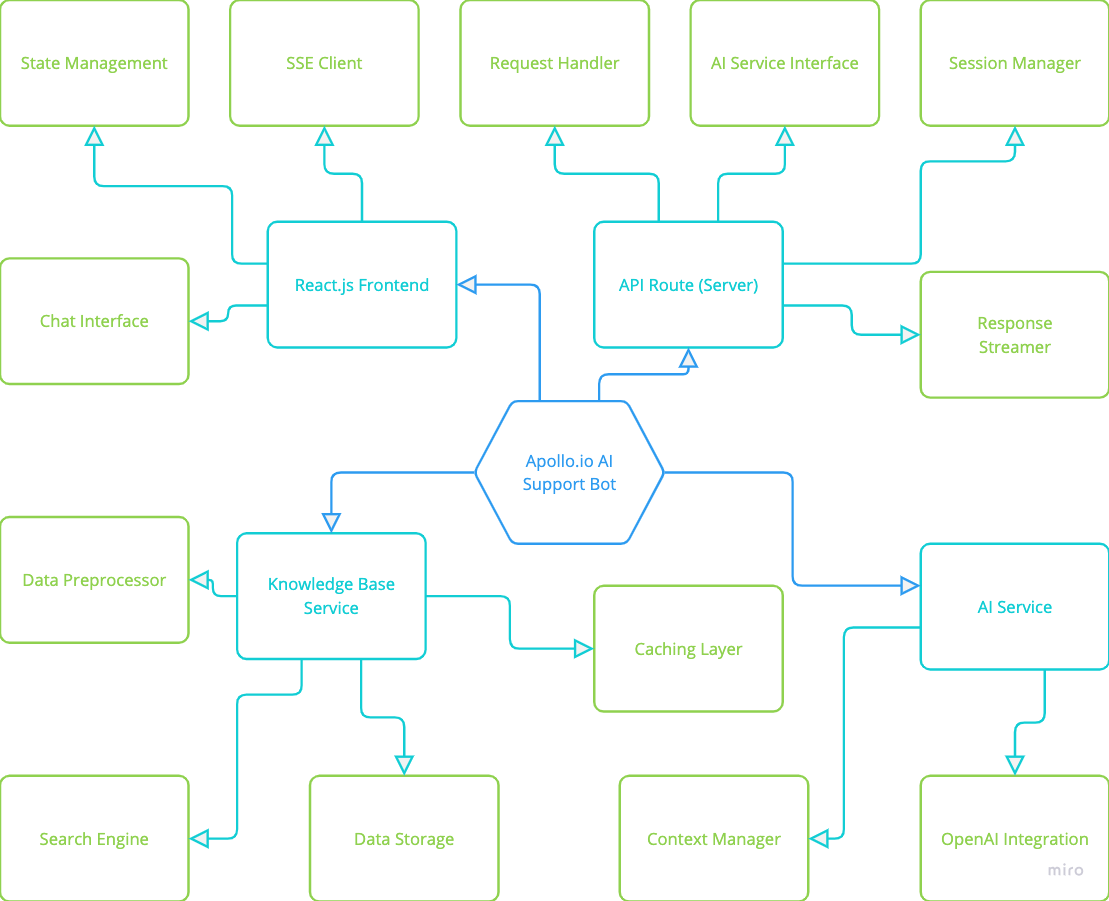
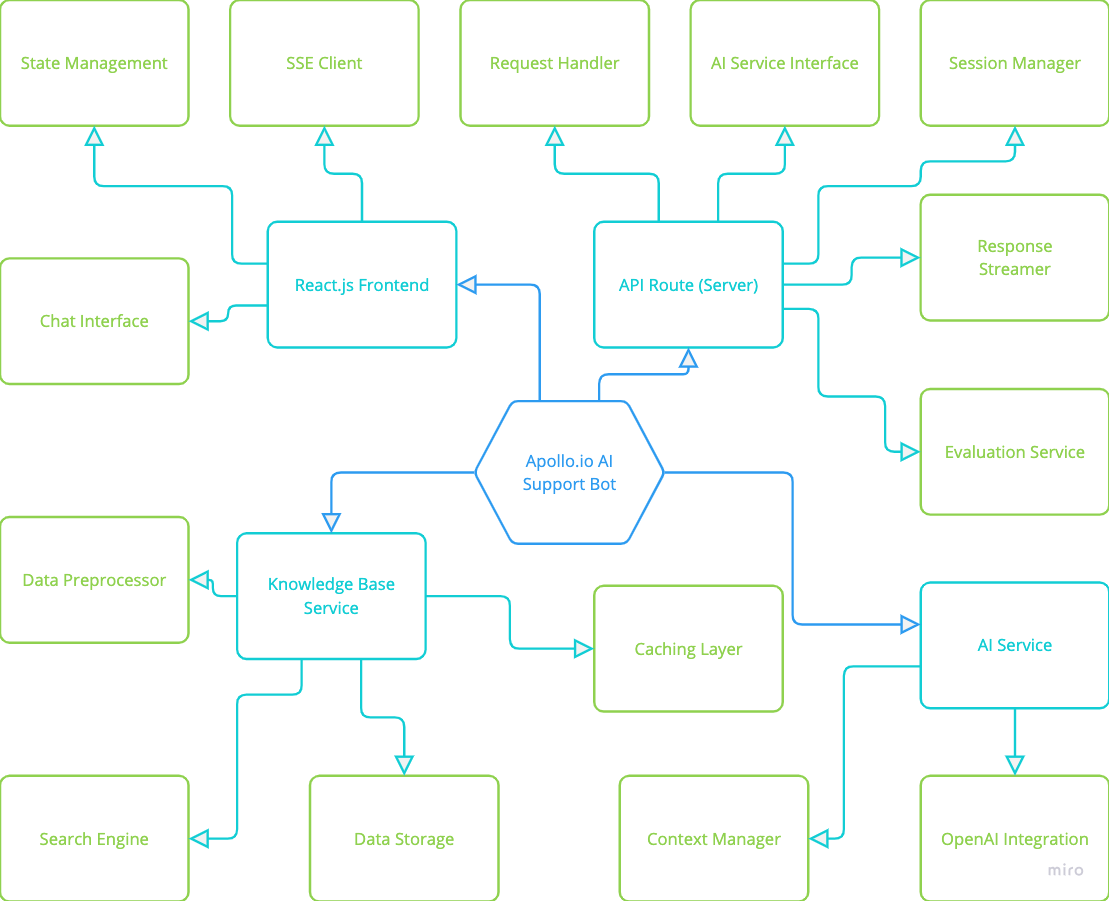
update design document

diff --git a/DESIGN_DOCUMENT.md b/DESIGN_DOCUMENT.md
@@ -2,46 +2,39 @@
 
 ## 1. System Architecture
 
-The Apollo.io AI Support Bot is built using a modern, scalable architecture designed to provide efficient and responsive user interactions. The various system components are now in a monolith application for the POC, but can be easily distributed for scale. Here's an overview of the system components:
+The Apollo.io AI Support Bot is built using a modern, scalable architecture designed to provide efficient and responsive user interactions. The various system components are now in a monolith application for the POC but can be easily distributed for scale. Here's an overview of the system components:
 
 ### Components:
 
 1. **Next.js Frontend**:
 
-   - Chat Interface:
-     - Allow user to interact
-   - State Management:
-     - Manages local chat history, handles UI state (loading, error states)
-   - SSE Client:
-     - Establishes and maintains SSE connection, processes incoming streamed responses
+   - **Chat Interface**: Allows user interaction.
+   - **State Management**: Manages local chat history and UI states (loading, error).
+   - **SSE Client**: Establishes and maintains SSE connection, processes incoming streamed responses.
 
 2. **API Route (Server)**:
 
-   - Request Handler:
-     - Parses incoming requests, validates input data
-   - Session Manager:
-     - Manages user sessions, handles conversation context
-   - AI Service Interface:
-     - Communicates with AI Service, formats data for AI processing
-   - Response Streamer:
-     - Implements SSE for real-time responses, manages connection lifecycle
+   - **Request Handler**: Parses incoming requests, validates input data.
+   - **Session Manager**: Manages user sessions, handles conversation context.
+   - **AI Service Interface**: Communicates with AI Service, formats data for AI processing.
+   - **Response Streamer**: Implements SSE for real-time responses, manages connection lifecycle.
+   - **Feedback API**: Collects user feedback on responses, including relevance scores.
 
 3. **AI Service**:
 
-   - OpenAI Integration:
-     - Formats prompts for OpenAI model
-   - Context Manager:
-     - Maintains conversation context, applies context-aware processing possible because of singleton pattern
+   - **OpenAI Integration**: Formats prompts for OpenAI model.
+   - **Context Manager**: Maintains conversation context, applies context-aware processing.
 
 4. **Knowledge Base Service**:
-   - Data Storage:
-     - Manages knowledgebase and other data
-   - Search Engine:
-     - Implements efficient search algorithms, ranks and retrieves relevant information
-   - Data Preprocessor:
-     - Cleans and formats raw data, generates searchable indices
-   - Caching Layer:
-     - Implements in-memory caching for frequent queries
+
+   - **Data Storage**: Manages knowledge base and other data.
+   - **Search Engine**: Implements efficient search algorithms, ranks and retrieves relevant information.
+   - **Data Preprocessor**: Cleans and formats raw data, generates searchable indices.
+   - **Caching Layer**: Implements in-memory caching for frequent queries.
+
+5. **Evaluation Service**:
+   - **Functionality**: Collects user feedback on bot responses, allowing for continuous improvement.
+   - **Relevance Score**: A numerical score assigned to each response based on user feedback, used to adjust response generation algorithms.
 
 ![System components](./resources/design.png "System components")
 
@@ -57,6 +50,7 @@ The data flow from user input to bot response follows these steps:
 6. OpenAI processes the query and generates a response.
 7. Response is streamed back through the API Route to the Frontend.
 8. Frontend updates the UI in real-time with the streamed response.
+9. User provides feedback on the response, which is sent to the Evaluation Service for processing.
 
 ![Sequence diagram](./resources/sequence.png "Sequence diagram for the request and response")
 
@@ -96,9 +90,11 @@ Our technology stack is chosen for its robustness, scalability, and developer-fr
 
 The main API endpoint for interacting with the bot is:
 
-POST /api/chat
+### Chat API
 
-### Request Body:
+**POST /api/chat**
+
+#### Request Body:
 
 ```json
 {
@@ -110,16 +106,54 @@ POST /api/chat
 }
 ```
 
-### Response:
+#### Response:
 
 The API uses Server-Sent Events (SSE) to stream the response in real-time.
 
 ```json
 #event: message
-{data: {"content": "Partial response content"}}
+{
+  "content": "Partial response content"
+}
 #event: message
-{data: {"content": "More response content"}}
+{
+  "content": "More response content"
+}
+#event: metrics
+{
+  "metrics": {
+    "responseTime":1868,
+    "responseLength":519,
+    "relevanceScore":66.66666666666666
+  },
+  "id":"7bab4468-dbbe-4998-b622-95750d8aee2d"
+}
 $event: done
+```
+
+### Feedback API
+
+**POST /api/feedback**
+
+#### Request Body:
+
+```json
+{
+  "messageId": "1726765568654",
+  "feedback": "down"
+}
+```
+
+#### Response:
+
+```json
+{
+  "success": true,
+  "feedback": {
+    "thumbsUp": 0,
+    "thumbsDown": 1
+  }
+}
 ```
 
 ## 5. Error Handling Scenarios
